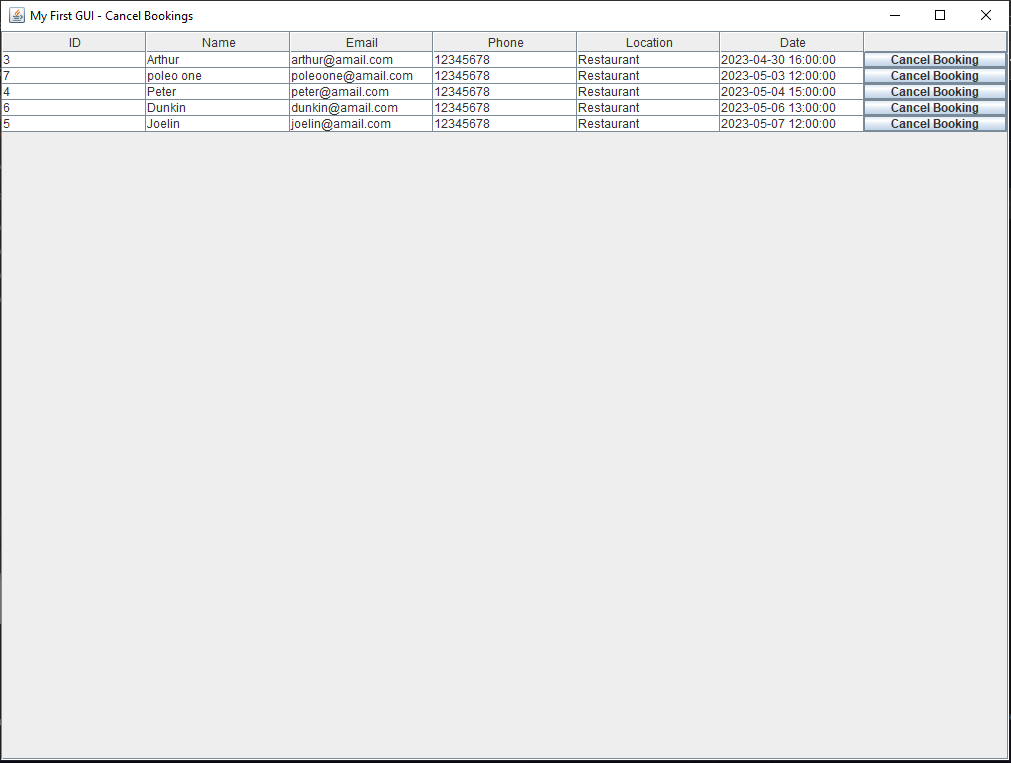
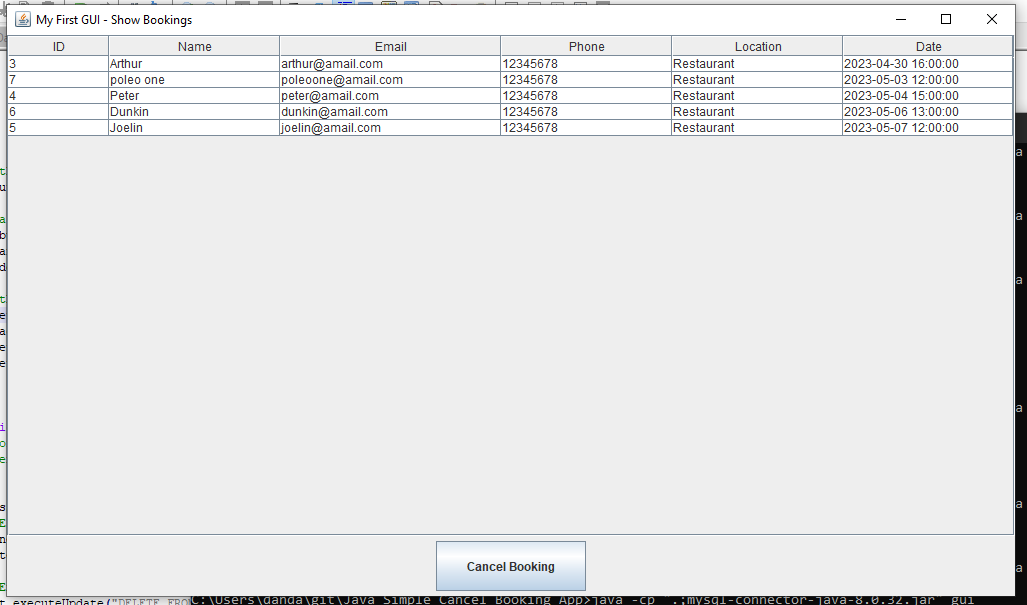
cancel booking feature done

Changed region(s): [[0.0, 0.0, 1.0, 1.0]]

diff --git a/gui.java b/gui.java
@@ -3,19 +3,17 @@ import java.awt.Dimension;
 import java.awt.Component;
 import java.awt.FlowLayout;
 import java.awt.Container;
+import java.awt.Color;
 
-import java.awt.event.ActionEvent;
-import java.awt.event.ActionListener;
+import java.awt.event.*;
 
 import java.sql.*;
 import java.util.ArrayList;
+import java.util.Arrays;
 
 import javax.swing.*;
 
-import javax.swing.table.DefaultTableCellRenderer;
-import javax.swing.table.DefaultTableModel;
-import javax.swing.table.TableCellRenderer;
-import javax.swing.table.TableColumn;
+import javax.swing.table.*;
 
 class gui {
 	
@@ -61,10 +59,7 @@ class gui {
 			  
 			  if(rows.isEmpty()){
 				rows.add("No Data" + "," + "No Data" + "," + "No Data" + "," + "No Data" + "," + "No Data" + "," + "No Data");  
-			  }
-
-			  // Display the list of rows in a dialog box
-			  JOptionPane.showMessageDialog(null, rows.toString());			  
+			  }		  
 
 			  // Close the database connection
 			  rs.close();
@@ -90,64 +85,147 @@ class gui {
 		return rows;
 		
 	}
+	
 
-	static void showRows(ArrayList<String> listOfRows, JFrame frame) {
+	static void showRows(ArrayList<String> rows, JFrame frame){
 		
-		// Get the content pane of the frame
-		Container contentPane = frame.getContentPane();
-
-		// Remove any existing components from the content pane
-		contentPane.removeAll();
+		// Clear the frame's content pane
+		frame.getContentPane().removeAll();
+		frame.repaint();
 		
-		frame.setTitle("My First GUI - Cancel Bookings");
+		// Create a panel with BorderLayout and add it to the frame's content pane
+		JPanel panel = new JPanel(new BorderLayout());
+		frame.getContentPane().add(panel);
 
-		// Create a table model and add columns
-		DefaultTableModel tableModel = new DefaultTableModel();
-		String[] headers = { "ID", "Name", "Email", "Phone", "Location", "Date", "" };
-		tableModel.setColumnIdentifiers(headers);
-
-		// Add rows to the table model
-		for (String row : listOfRows) {
-			String[] rowData = row.split(",");
-			tableModel.addRow(rowData);
+		// Create a JTable with the number of rows equal to the size of the rows arraylist and six columns
+		String[] columnNames = {"ID", "Name", "Email", "Phone", "Location", "Date"};
+		Object[][] rowData = new Object[rows.size()][6];
+		for (int i = 0; i < rows.size(); i++) {
+			String[] row = rows.get(i).split(",");
+			for (int j = 0; j < row.length; j++) {
+				rowData[i][j] = row[j];
+			}
 		}
+		JTable table = new JTable(rowData, columnNames);
 
-		// Create a JTable with the table model
-		JTable table = new JTable(tableModel);
+		// Set the table's column widths
+		TableColumnModel columnModel = table.getColumnModel();
+		columnModel.getColumn(0).setPreferredWidth(30);
+		columnModel.getColumn(1).setPreferredWidth(100);
+		columnModel.getColumn(2).setPreferredWidth(150);
+		columnModel.getColumn(3).setPreferredWidth(100);
+		columnModel.getColumn(4).setPreferredWidth(100);
+		columnModel.getColumn(5).setPreferredWidth(100);
 
-		// Create a custom cell renderer for the last column
-		TableColumn column = table.getColumnModel().getColumn(6);
-		column.setCellRenderer(new ButtonRenderer());
-
-		// Set the preferred size of the table and add it to a scroll pane
-		table.setPreferredScrollableViewportSize(new Dimension(500, 70));
+		// Add the table to a JScrollPane and add the JScrollPane to the panel
 		JScrollPane scrollPane = new JScrollPane(table);
+		panel.add(scrollPane, BorderLayout.CENTER);
 
-		// Add the scroll pane to the content pane's CENTER position
-		contentPane.add(scrollPane, BorderLayout.CENTER);
+		// Add a cancel button to the panel
+		JButton cancelButton = new JButton("Cancel Booking");
+		cancelButton.addActionListener(new ActionListener() {
+			public void actionPerformed(ActionEvent e) {
+				int selectedRow = table.getSelectedRow();
+				if (selectedRow != -1) {
+					String bookingId = (String) table.getValueAt(selectedRow, 0);
+					cancelBooking(bookingId,rows,frame);
+					rows.remove(selectedRow);
+					((AbstractTableModel) table.getModel()).fireTableDataChanged();
+				} else {
+					JOptionPane.showMessageDialog(frame, "Please select a row to cancel.");
+				}
+			}
+		});
+		
+		// Set the preferred size of the cancel button
+		cancelButton.setPreferredSize(new Dimension(150, 50));
+		
+		// Add a cancel button to a separate JPanel and add this panel to the SOUTH position of the main panel
+		JPanel buttonPanel = new JPanel(new FlowLayout());
+		buttonPanel.add(cancelButton);
+		panel.add(buttonPanel, BorderLayout.SOUTH);
 
-		// Set the content pane of the frame and make it visible
-		frame.setContentPane(contentPane);
+		// Set the frame's size and make it visible
+		frame.setPreferredSize(new Dimension(1024, 600));
+		frame.pack();
+		frame.setLocationRelativeTo(null);
 		frame.setVisible(true);
 	}
 
-	// Custom cell renderer for the last column
-	static class ButtonRenderer extends DefaultTableCellRenderer {
-		private static final long serialVersionUID = 1L;
+	
+	public static void cancelBooking(String bookingId,ArrayList<String> rows, JFrame frame) {
+		// Perform the logic to cancel the booking with the given ID
+		// For example, you might remove the booking from a database or mark it as cancelled
+		
+		try {
+			Class.forName("com.mysql.cj.jdbc.Driver");
+			// Establish a connection to the database
+			Connection conn = DriverManager.getConnection("jdbc:mysql://localhost/restaurantbooking", "dddd", "uhbygv123");
+			Statement stmt = conn.createStatement();
 
-		public ButtonRenderer() {
-			setOpaque(true);
-		}
+			// Execute a query to delete the row with the given ID
+			stmt.executeUpdate("DELETE FROM booking WHERE id = " + bookingId);
+			stmt.close();
+			conn.close();
+			
+			// Show a message to the user to indicate that the booking has been cancelled
+			JOptionPane.showMessageDialog(null, "Booking " + bookingId + " has been cancelled.");
 
-		public Component getTableCellRendererComponent(JTable table, Object value, boolean isSelected, boolean hasFocus, int row, int column) {
-			JButton button = new JButton("Cancel Booking");
-			button.addActionListener(new ActionListener() {
-				public void actionPerformed(ActionEvent e) {
-					// Handle button click event
-					System.out.println("View button clicked for row " + row);
-				}
-			});
-			return button;
+			} catch (ClassNotFoundException ex) {
+				
+			// Show a message to the user to indicate that the booking has been cancelled
+			JOptionPane.showMessageDialog(null, "Booking " + bookingId + " CANNOT cancelled.");	
+				
+			ex.printStackTrace();
+			
+			} catch (SQLException ex) {
+				
+			// Show a message to the user to indicate that the booking has been cancelled
+			JOptionPane.showMessageDialog(null, "Booking " + bookingId + " CANNOT cancelled.");		
+				
+			ex.printStackTrace();
+		}		
+		
+		ArrayList<String> newRows = new ArrayList<String>();
+		
+		try {
+		  Class.forName("com.mysql.cj.jdbc.Driver");
+		  // Establish a connection to the database
+		  Connection conn = DriverManager.getConnection("jdbc:mysql://localhost/restaurantbooking", "cccc", "edcrfv456");
+		  Statement stmt = conn.createStatement();
+
+		  // Execute a query to retrieve the rows from the booking table
+		  ResultSet rs = stmt.executeQuery("SELECT * FROM booking WHERE theDate >= CURDATE() ORDER BY theDate ASC");
+		  
+		  // Iterate over the result set to retrieve the rows and store them in a list or array
+		  while (rs.next()) {
+			  
+			int id = rs.getInt("id");
+			String name = rs.getString("name");
+			String email = rs.getString("email");	
+			String phone = rs.getString("phone");	
+			String location = rs.getString("location");	
+			String theDate = rs.getString("theDate");	
+			
+			String row = id + "," + name + "," + email + "," + phone + "," + location + "," + theDate;
+			newRows.add(row);
+		  }
+		  
+		  if(newRows.isEmpty()){
+			newRows.add("No Data" + "," + "No Data" + "," + "No Data" + "," + "No Data" + "," + "No Data" + "," + "No Data");  
+		  }		  
+
+		  // Close the database connection
+		  rs.close();
+		  stmt.close();
+		  conn.close();
+		  
+		  showRows(newRows,frame);	
+		  
+		} catch (ClassNotFoundException ex) {
+		  ex.printStackTrace();
+		} catch (SQLException ex) {
+		  ex.printStackTrace();
 		}
 	}
 	
@@ -155,7 +233,7 @@ class gui {
 		
 		JFrame frame = new JFrame("My First GUI - Show Bookings");
 		
-		frame.setSize(1024, 768);
+		frame.setSize(1024, 600);
 		frame.setDefaultCloseOperation(JFrame.EXIT_ON_CLOSE);
 		
 		//Load rows

diff --git a/README.md b/README.md
@@ -8,10 +8,22 @@ An app to cancel booking done by customers with  java_simple_booking_webapp_2
 - I am purely attempting to learn java from scratch, and refresh myself
 
 ## Screenshots
-- Show Bookings
+- Show Bookings Button
 - 
 ![ScreenShot](https://raw.githubusercontent.com/danrohangit/Java_Simple_Cancel_Booking_App/main/images/ShowBookings1.PNG)
 
-- Cancel Bookings
+- Booking list
 - 
 ![ScreenShot](https://raw.githubusercontent.com/danrohangit/Java_Simple_Cancel_Booking_App/main/images/CancelBookings1_1.PNG)
+
+- Booking list Selected
+- 
+![ScreenShot](https://raw.githubusercontent.com/danrohangit/Java_Simple_Cancel_Booking_App/main/images/CancelBookings1_1_selected.PNG)
+
+- Booking list Cancel Prompt
+- 
+![ScreenShot](https://raw.githubusercontent.com/danrohangit/Java_Simple_Cancel_Booking_App/main/images/CancelBookings1_1_cancelledPrompt.PNG)
+
+- Booking list After Cancelled
+- 
+![ScreenShot](https://raw.githubusercontent.com/danrohangit/Java_Simple_Cancel_Booking_App/main/images/CancelBookings1_1_afterCancelled.PNG)
